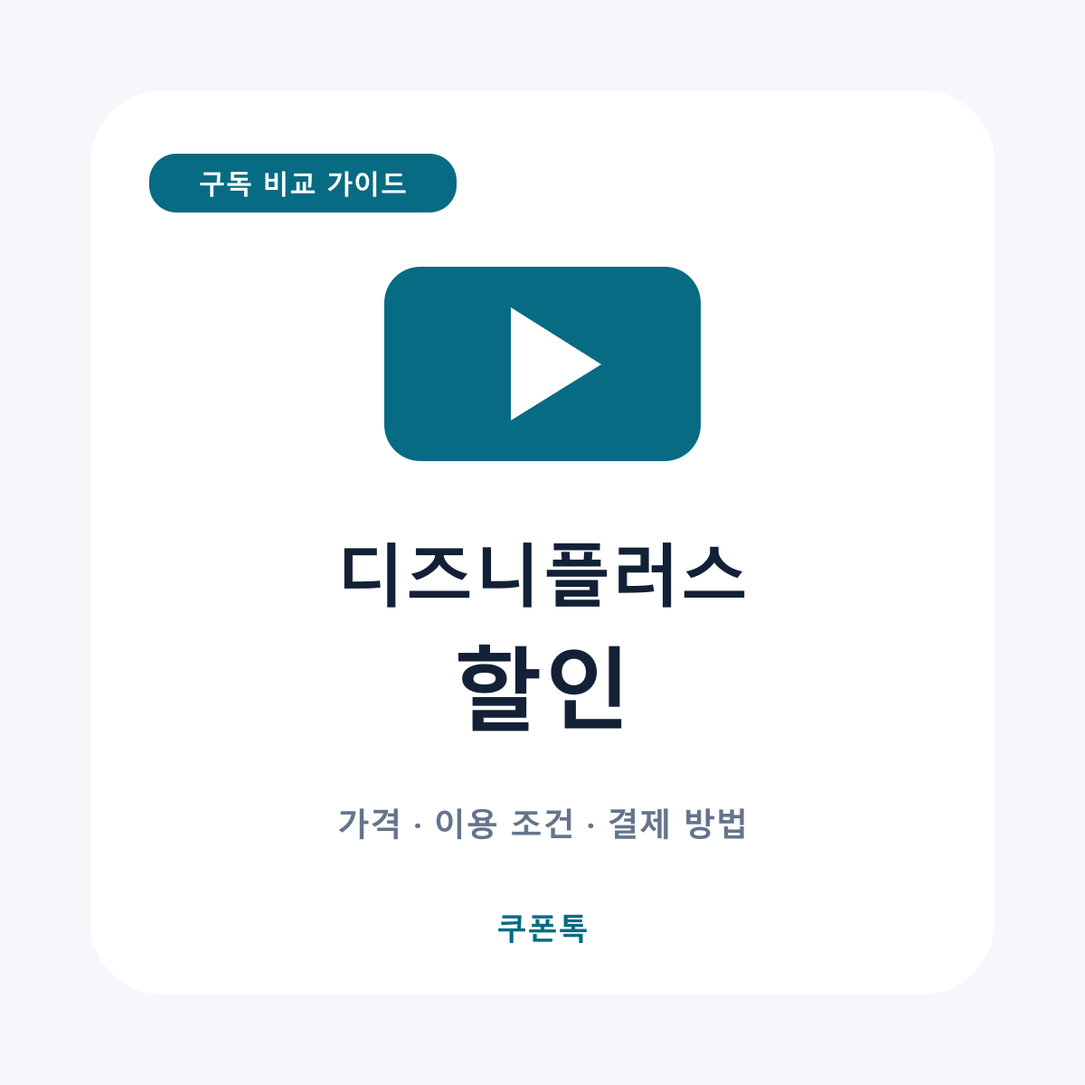
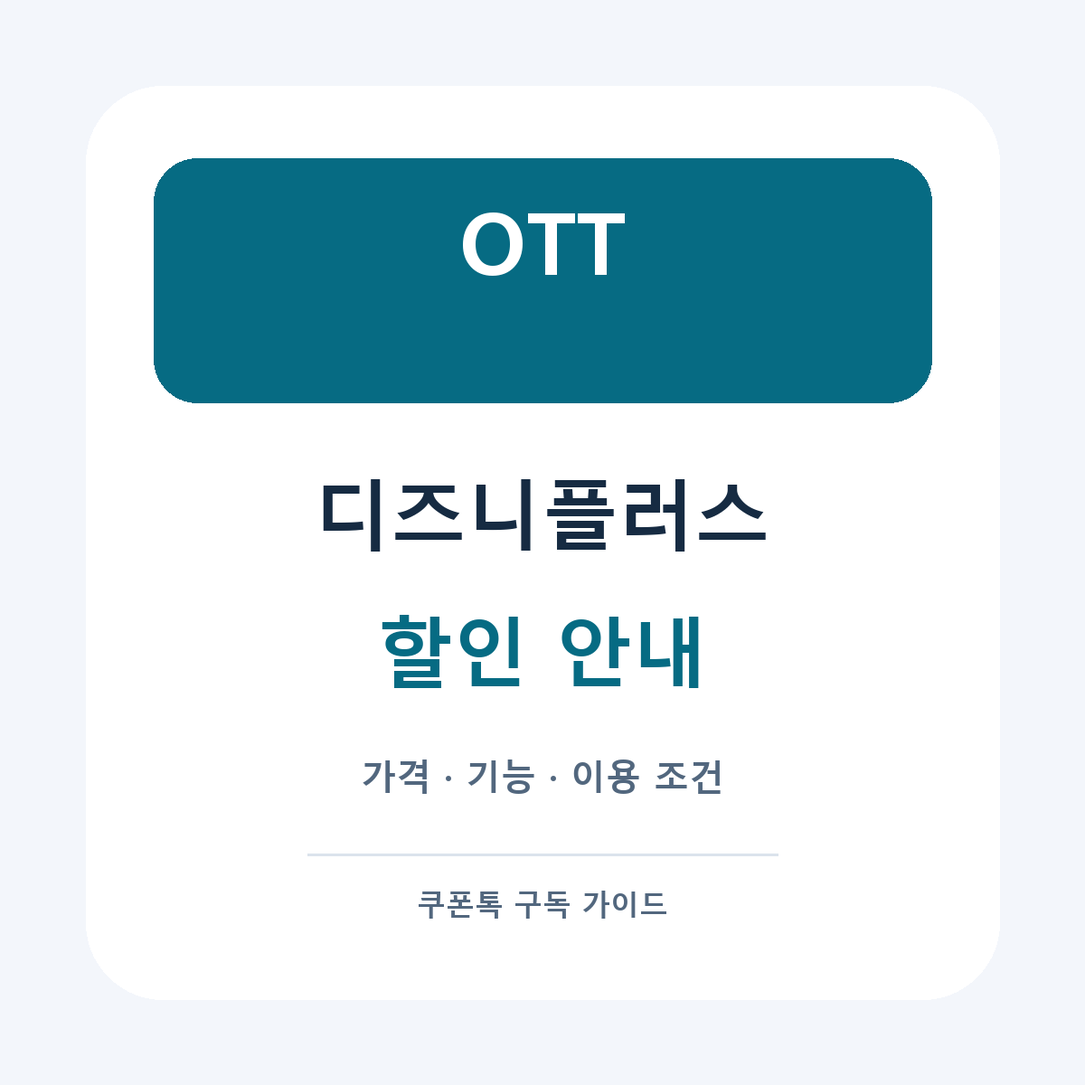
Expand subscription comparison guides to 15 services

Changed region(s): [[0.1233, 0.1233, 0.8633, 0.8633], [0.3083, 0.6783, 0.4008, 0.7708]]

diff --git a/src/lib/subscription-guides-extra.ts b/src/lib/subscription-guides-extra.ts
@@ -1,0 +1,195 @@
+// Editorial comparisons: do not infer a coupon or availability from the affiliate URL.
+export const extraSubscriptionGuides = [
+  {
+    slug: 'chatgpt-discount', title: '챗지피티 할인', service: '챗GPT', color: '#14796b',
+    description: '챗지피티 할인과 ChatGPT Plus 구독료 비교. 무료·유료 선택, 개인·공유 계정, 파일 업로드와 사용 한도, 겜스고 결제 전 확인사항을 안내합니다.',
+    intro: '챗지피티를 매일 쓰는지, 한 달 동안만 필요한지에 따라 구독 선택이 달라집니다. 챗GPT 플러스 할인은 월 환산 가격과 내 작업에 필요한 사용 한도를 함께 비교하세요.',
+    takeaway: '공유 계정의 낮은 가격과 개인 계정의 작업 환경을 구분하세요. 중요한 대화·파일을 다룬다면 계정 관리 권한부터 확인하는 것이 좋습니다.',
+    columns: ['비교 대상', '가격 확인 방법', '먼저 볼 조건'],
+    rows: [['공식 무료 이용', '공식 Free 플랜 확인', '필요한 파일·이미지 작업을 무료 범위에서 먼저 시험'], ['공식 유료 구독', 'Plus 등 로그인 후 결제 화면', '모델·업로드·도구 사용 한도와 청구 주기'], ['겜스고 상품', '개인형·공유형·충전형별 총액', '계정 소유권, 대화 접근, 제공 기간, 중단 시 처리']],
+    sections: [
+      { heading: '챗지피티 무료·유료 차이, 내 작업으로 비교하기', text: '짧은 질문과 문장 정리가 목적이라면 먼저 무료로 실제 작업을 해보세요. 긴 문서 분석이나 이미지 작업이 자주 중단될 때는 유료 플랜의 사용 한도가 도움이 되는지 살펴볼 수 있습니다. 한도는 기능과 모델에 따라 다르므로 유료라는 이유만으로 모든 작업이 무제한이라고 생각하지 마세요.' },
+      { heading: '챗지피티 플러스 싸게 쓰는 비용 계산', text: '공유형 한 달, 개인형 한 달, 장기 선결제 상품의 금액을 나란히 적어보세요. 6개월 총액을 6으로 나눈 금액과 실제 매달 납부하는 월 구독료는 다릅니다. 한 달짜리 프로젝트를 위해 긴 기간을 결제하면 월 환산가가 낮아도 총지출은 늘어날 수 있습니다.' },
+      { heading: '공유 계정과 내 계정 충전은 무엇이 다른가요?', text: '판매자가 제공하는 계정에 로그인하는 방식인지, 기존 내 계정에 이용 기간을 추가하는 방식인지 확인하세요. 공유형은 대화 기록과 업로드 파일의 접근 범위, 비밀번호 변경 가능 여부를 따로 확인해야 합니다. 기존 Plus가 남아 있다면 충전 시작일과 중복 결제 여부도 확인하세요.' },
+      { heading: 'Codex·API가 목적이라면 별도 확인하세요', text: '겜스고 ChatGPT 상품 안내에는 Codex 이용이 보장되지 않는다는 문구가 표시됩니다. 코딩 도구가 주목적이라면 일반 챗GPT 상품 가격만으로 결정하지 마세요. API 사용료 역시 채팅 구독과 같은 결제로 가정하지 말고 필요한 제품과 이용 범위를 구분해야 합니다.' },
+    ],
+    questions: [['챗지피티 학생 할인도 적용되나요?', '학생 대상 프로모션은 자격과 기간이 따로 있을 수 있습니다. 겜스고 상품을 공식 학생 할인으로 안내하지 않으며 해당 결제 화면에서 대상 여부를 확인하세요.'], ['기존 챗지피티 계정을 계속 쓸 수 있나요?', '개인 계정 충전인지 판매자 제공 계정인지에 따라 달라집니다. 기존 대화 기록을 이어 쓰려면 구매 전에 계정 제공 방식을 확인하세요.'], ['제휴 링크가 챗지피티 할인코드인가요?', '아닙니다. 이 페이지의 링크는 겜스고 제휴 링크이며 별도로 검증한 입력용 쿠폰 코드는 없습니다.']],
+    sources: [{ label: 'ChatGPT 공식 플랜 비교', url: 'https://chatgpt.com/ko-KR/pricing/' }], productSource: 'https://www.gamsgo.com/ko/details/chatgpt',
+  },
+  {
+    slug: 'claude-discount', title: '클로드 할인', service: '클로드', color: '#a95130',
+    description: '클로드 할인과 구독 가격 비교. Claude Pro·Max 선택 기준, 개인·공유 계정, Claude Code 및 API 이용 범위를 결제 전에 확인하세요.',
+    intro: '문서 작성, 긴 자료 검토, 코딩 중 무엇에 클로드를 사용할지 먼저 정하세요. 구독료뿐 아니라 내 작업량과 필요한 계정 권한을 비교하면 불필요한 결제를 줄일 수 있습니다.',
+    takeaway: 'Claude Pro·Max의 사용량 차이와 판매 상품의 실제 이용 권한을 구분하세요. API 크레딧 포함 여부는 별도로 확인해야 합니다.',
+    columns: ['선택 기준', '공식 구독', '제3자 판매 상품'],
+    rows: [['개인 작업', 'Free·Pro·Max 플랜 비교', '표시된 플랜과 개인 전용 여부 확인'], ['사용량', '공식 플랜별 제한 안내', '공유 사용자 수와 제한 발생 시 처리 확인'], ['코딩·연동', '필요한 도구의 제공 범위 확인', 'Claude Code·API를 따로 보장하는지 확인']],
+    sections: [
+      { heading: '클로드 가격보다 사용량을 먼저 비교하세요', text: '짧은 글쓰기와 긴 문서를 여러 번 수정하는 작업은 사용량이 다를 수 있습니다. 일주일 동안 자주 하는 작업을 기록하고 무료 범위에서 막히는 지점을 확인하세요. 상위 플랜은 더 많은 작업이 필요한 사람에게 검토할 대상이며, 가끔 사용하는 사람에게 항상 유리한 선택은 아닙니다.' },
+      { heading: '클로드 구독 할인과 연간 선결제', text: '월간 결제와 연간 결제를 비교할 때는 할인율뿐 아니라 사용하지 않을 달도 계산해야 합니다. 공식 가격의 통화·세금과 카드 청구액을 확인하고 겜스고 상품도 같은 기간의 총액으로 비교하세요. 장기 이용 상품의 환불 기준은 공식 구독과 같다고 가정하지 마세요.' },
+      { heading: '클로드 계정 구매 전 확인할 권한', text: '겜스고 마켓플레이스에서는 판매자와 상품별 조건을 읽어야 합니다. 로그인 방식, 비밀번호 변경, 대화와 프로젝트 접근, 기존 계정 사용 가능 여부를 확인하세요. 회사 문서나 고객 자료를 사용하려면 먼저 조직의 계정·데이터 이용 기준에 맞는 상품인지 판단하세요.' },
+      { heading: 'Claude Code와 API 목적이라면', text: '브라우저 채팅이 가능하다는 설명만으로 코딩 도구나 API 사용까지 포함된다고 판단하지 마세요. 필요한 도구 이름, 플랜, 인증 방식과 사용 제한을 판매 상세에서 확인하세요. 개발 작업의 연속성이 중요하다면 이용 중단 시 대체 계정과 기존 작업 복구가 어떻게 되는지도 살펴보세요.' },
+    ],
+    questions: [['클로드 할인과 클로드 가격 페이지를 각각 만들어야 하나요?', '이 페이지에서 가격 비교와 할인 조건을 함께 확인할 수 있습니다. 같은 구독 선택에 필요한 내용을 한곳에 정리했습니다.'], ['클로드 Pro면 API도 무료인가요?', '채팅 구독과 API 청구를 구분해야 합니다. 구매할 상품에 API 사용료가 포함된다고 명시돼 있는지 확인하세요.'], ['공유 계정에서 대화를 비공개로 보관할 수 있나요?', '계정 관리와 접근 권한에 따라 다르므로 보장하지 않습니다. 민감한 자료를 업로드하기 전에 접근 범위를 확인하세요.']],
+    sources: [{ label: 'Claude 공식 플랜·가격', url: 'https://claude.com/pricing' }], productSource: 'https://www.gamsgo.com/ko/accounts/claude',
+  },
+  {
+    slug: 'gemini-discount', title: '제미나이 할인', service: '제미나이', color: '#405fd0',
+    description: '제미나이 할인과 Google AI 구독 가격 비교. 학생 혜택, 기존 Google One 구독, 개인 계정 충전, 저장공간과 AI 기능을 확인하세요.',
+    intro: '제미나이 구독은 AI 기능만 필요한지, Google 계정의 저장공간도 필요한지에 따라 비교할 내용이 달라집니다. 이미 사용 중인 Google One 결제부터 확인해보세요.',
+    takeaway: '개인 계정 충전·계정 제공·리딤 방식의 차이를 확인하세요. 기존 Google One과 새 상품의 기간이 겹치지 않는지도 중요합니다.',
+    columns: ['비교 항목', '확인할 내용', '선택에 미치는 영향'],
+    rows: [['공식 AI 플랜', '현재 국가의 플랜·기능·저장공간', '필요한 기능이 포함된 등급 선택'], ['학생·신규 혜택', '대상·신청 기한·종료 후 청구액', '자격이 맞을 때만 혜택 계산'], ['겜스고 상품', '리딤·계정·충전 옵션과 총액', '내 계정 사용 및 기존 구독과의 호환 여부']],
+    sections: [
+      { heading: '제미나이 가격, AI 기능과 저장공간 나눠 보기', text: '문서 요약이나 이미지 작업을 위한 구독인지, Drive·사진 저장공간도 필요한지 정리하세요. 저장공간만 필요하다면 AI 플랜을 선택하는 것이 과한 지출일 수 있습니다. 반대로 여러 기능을 쓰고 있다면 기존 구독료와 새 플랜 총액을 함께 비교하는 것이 좋습니다.' },
+      { heading: '제미나이 학생 할인은 대상부터 확인하세요', text: '학생 대상 혜택을 찾더라도 현재 신청 가능한 국가·학교·계정인지 확인해야 합니다. 지난 행사 안내를 현재 진행 중인 할인으로 보지 마세요. 무료 또는 할인 기간 이후 자동으로 청구되는 금액과 취소 기한을 확인한 뒤 비교표에 반영하세요.' },
+      { heading: '겜스고 제미나이 상품, 충전과 계정 제공 비교', text: '겜스고에서는 상품 옵션에 따라 제공 방식이 달라질 수 있습니다. 기존 이메일로 이용할 수 있는지, 새 계정이 제공되는지, 리딤 링크를 직접 적용하는지 먼저 확인하세요. 저장공간·가족 기능·AI 크레딧까지 모두 동일하게 제공된다고 가정하지 마세요.' },
+      { heading: '기존 구독이 있다면 갱신일 확인', text: 'Google One을 이미 결제 중이면 현재 플랜, 결제 사업자와 다음 갱신일을 적어두세요. 새로운 상품이 남은 기간을 연장하는지, 별도의 계정에서 시작하는지 확인해야 중복 지출을 피할 수 있습니다. 적용 불가 시 처리 방법도 구매 전에 확인하세요.' },
+    ],
+    questions: [['제미나이 할인 링크를 누르면 학생 혜택이 적용되나요?', '아닙니다. 학생 혜택은 공식 자격 확인이 필요한 별도 프로그램이며 제휴 링크가 자격을 부여하지 않습니다.'], ['내 구글 계정을 계속 쓸 수 있나요?', '선택한 충전·리딤·계정 제공 상품에 따라 다릅니다. 상품 상세의 적용 조건을 확인하세요.'], ['품절인 옵션은 어떻게 하나요?', '다른 제공 방식의 상품은 조건이 다를 수 있습니다. 재입고 또는 공식 직접 구독과 비교하고 같은 상품으로 가정하지 마세요.']],
+    sources: [{ label: 'Google One 공식 AI 플랜 안내', url: 'https://one.google.com/about/google-ai-plans/' }], productSource: 'https://www.gamsgo.com/ko/details/gemini',
+  },
+  {
+    slug: 'tving-discount', title: '티빙 할인', service: '티빙', color: '#cf2144',
+    description: '티빙 할인과 이용권 비교. 광고형·스탠다드·프리미엄, TV 시청, 연간 결제와 결합 상품, 겜스고 프로필 제공 조건을 확인하세요.',
+    intro: '드라마 한 편을 볼 때와 스포츠 시즌 내내 이용할 때 필요한 티빙 이용권은 다를 수 있습니다. 시청 기간과 TV 연결 여부부터 정하고 할인 방법을 비교하세요.',
+    takeaway: '광고·화질·시청 기기 조건이 같은 상품끼리 비교하세요. 다른 OTT도 사용한다면 번들의 총액도 확인할 만합니다.',
+    columns: ['비교 방법', '확인할 조건', '추천 비교 상황'],
+    rows: [['공식 월간 이용권', '광고·화질·동시 시청·기기', '짧게 이용하거나 필요할 때만 결제'], ['연간·결합 혜택', '선결제 총액과 포함 서비스', '여러 달 또는 여러 OTT 이용'], ['겜스고 상품', '프로필·PIN·TV 접속·제공 기간', '별도 계정 제공 조건을 이해한 경우']],
+    sections: [
+      { heading: '티빙 이용권 할인, 광고와 TV 연결 먼저 비교', text: '휴대폰으로 짧게 보는지, 거실 TV에서 길게 보는지에 따라 필요한 조건이 달라집니다. 광고 유무와 지원 기기, 화질을 공식 이용권 화면에서 확인하세요. 보고 싶은 콘텐츠의 시청 가능 여부도 구독 전 확인하면 사용하지 못하는 이용권 구매를 피할 수 있습니다.' },
+      { heading: '티빙 연간 할인과 월간 결제 계산', text: '한 작품을 보고 중단할 계획이면 1~2개월 총액으로 비교하세요. 연간 금액을 12로 나눈 값은 매달 납부하는 요금이 아닐 수 있습니다. 자동 갱신 취소와 남은 기간 환불은 다른 절차이므로 취소 화면의 안내를 확인해야 합니다.' },
+      { heading: '티빙·디즈니플러스·웨이브 결합 비교', text: '여러 OTT를 이미 이용 중이라면 각각의 실제 청구액을 합쳐 공식 결합 상품과 비교해보세요. 결합으로 바꾸면서 화질이나 계정 연결 방식이 달라지는지 살펴보세요. 겜스고 티빙 단일 상품에 다른 OTT가 자동 포함된다고 가정해서는 안 됩니다.' },
+      { heading: '겜스고 티빙 프로필과 PIN 확인', text: '겜스고 티빙 카드에는 프로필 제공과 PIN 설정 안내가 표시됩니다. 프로필을 받는 것과 계정을 직접 관리하는 것은 다릅니다. TV 로그인, 동시 접속, 비밀번호 변경 권한, 접속이 끊겼을 때의 대응을 상품 상세에서 확인하세요.' },
+    ],
+    questions: [['티빙 한 달 무료 혜택이 있나요?', '현재 모든 이용자에게 적용되는 무료 이용을 이 페이지에서 보장하지 않습니다. 공식 신규·제휴 혜택의 대상과 종료일을 확인하세요.'], ['겜스고 티빙이면 TV에서도 볼 수 있나요?', '상품별 기기와 인증 조건을 확인해야 합니다. 프리미엄이라는 명칭만으로 모든 TV 접속을 보장하지 않습니다.'], ['연간 결제가 항상 저렴한가요?', '월 환산가가 낮아도 실제 사용할 기간이 짧으면 월간 결제의 총지출이 더 적을 수 있습니다.']],
+    sources: [{ label: '티빙 공식 이용권 선택 화면', url: 'https://www.tving.com/bill/subscription/plan' }], productSource: 'https://www.gamsgo.com/ko/details/tving',
+  },
+  {
+    slug: 'suno-plans', title: '수노 요금제 비교', service: '수노', color: '#a44976',
+    description: '수노 요금제 비교와 Suno AI 가격 안내. 무료·유료 크레딧, 상업적 이용, 음악 생성량, 겜스고 공유 상품의 할당량을 비교하세요.',
+    intro: '수노로 음악을 시험 삼아 만들지, 영상이나 판매용 작업에 사용할지 먼저 정하세요. 월 구독료만큼 크레딧과 결과물 이용 조건이 중요합니다.',
+    takeaway: '공식 플랜의 전체 크레딧과 공유 상품에서 내가 받는 크레딧을 구분하세요. 상업적 사용은 생성 시점의 조건을 확인해야 합니다.',
+    columns: ['비교 대상', '먼저 확인할 것', '적합성 판단'],
+    rows: [['무료 플랜', '일일 크레딧과 결과물 이용 범위', '작곡 방식과 결과를 시험할 때'], ['공식 유료 플랜', '월 크레딧·추가 구매·상업 이용', '반복 제작과 공개·판매 작업'], ['겜스고 수노', '사용자별 크레딧과 공유 조건', '필요한 작업량을 실제 할당량으로 계산']],
+    sections: [
+      { heading: '수노 무료와 유료 차이: 상업적 이용', text: 'Suno 공식 가격 안내는 무료 플랜에 상업적 이용 권한이 포함되지 않는다고 안내합니다. 광고 영상, 음원 유통처럼 수익과 연결되는 작업이라면 구독 명칭만 보지 말고 생성 당시의 이용 조건과 권리 범위를 확인하세요. 유료 가입 전 만든 곡의 권한도 별도로 확인하는 것이 좋습니다.' },
+      { heading: '수노 AI 크레딧으로 한 달 작업량 계산', text: '완성곡 한 개가 나오기까지 여러 번 생성하고 수정할 수 있습니다. 먼저 시험 작업에서 사용한 크레딧을 기록하고, 한 달에 만들 곡 수를 곱해보세요. 단순 생성 횟수보다 재생성·확장·편집에 들어갈 여유분을 함께 잡는 것이 현실적입니다.' },
+      { heading: '겜스고 수노는 사용자별 제공량 확인', text: '겜스고 홈의 수노 상품에는 사용자별 크레딧 안내가 있습니다. 공식 Pro 전체 크레딧이 그대로 내 몫이라고 생각하지 마세요. 갱신 시점, 초과 사용 가능 여부, 다른 이용자와 작업 목록을 공유하는지, 곡 다운로드 범위를 확인해야 합니다.' },
+      { heading: '수노 연간 요금제를 고르는 기준', text: '연간 할인은 꾸준히 음악을 만드는 경우에 비교할 만합니다. 잠깐 음원을 제작하는 프로젝트라면 필요한 달만 결제하는 방법도 계산해보세요. 통화와 세금을 포함한 총액, 사용하지 않은 크레딧 처리, 해지 후 파일 보관 여부를 확인하고 작업 파일은 따로 보관하세요.' },
+    ],
+    questions: [['수노 Pro를 사면 음악을 마음대로 판매할 수 있나요?', '생성 시점의 플랜과 공식 이용 조건, 사용한 입력 자료의 권리를 함께 확인해야 합니다. 이 페이지는 모든 결과물의 판매 가능성을 보장하지 않습니다.'], ['겜스고 수노와 공식 Pro의 크레딧이 같나요?', '공유형 상품은 사용자별 배정량이 다를 수 있습니다. 최종 상품 안내에 적힌 내 할당량으로 비교하세요.'], ['수노 가격은 월 환산가로 비교하면 되나요?', '월 환산가와 실제 선결제 총액을 함께 비교해야 합니다. 필요한 사용 기간도 포함하세요.']],
+    sources: [{ label: 'Suno 공식 요금제·크레딧·이용 범위', url: 'https://suno.com/pricing' }], productSource: 'https://www.gamsgo.com/ko/details/suno',
+  },
+  {
+    slug: 'midjourney-pricing', title: '미드저니 가격', service: '미드저니', color: '#336a9a',
+    description: '미드저니 가격과 Basic·Standard·Pro·Mega 비교. 월간·연간 요금, Fast·Relax 시간, 비공개 작업과 겜스고 제공 방식을 확인하세요.',
+    intro: '이미지를 몇 장 만들지보다 얼마나 자주 수정할지가 중요합니다. 미드저니 가격은 생성 시간과 공개 범위, 필요한 작업 속도까지 함께 비교하세요.',
+    takeaway: '연간 요금은 한 번에 결제하는 총액입니다. 비공개 작업이 필요하면 해당 기능을 제공하는 플랜부터 확인하세요.',
+    columns: ['공식 플랜', '월간 / 연간 총액(USD)', '비교 포인트'],
+    rows: [['Basic', '$10 / $96', '소량 작업의 Fast 시간 확인'], ['Standard', '$30 / $288', '이미지 Relax 모드 사용 비교'], ['Pro', '$60 / $576', 'Stealth 등 비공개 작업 기능 확인'], ['Mega', '$120 / $1,152', '많은 생성량에 필요한 시간 비교']],
+    sections: [
+      { heading: '미드저니 월간·연간 가격 차이', text: '공식 비교표의 연간 금액은 월 환산가가 아닌 1년 총액으로 표시했습니다. 예를 들어 Basic 연간 $96은 매달 $8씩 결제한다는 의미가 아닙니다. 실제 원화 청구액은 환율과 세금 등 결제 조건에 따라 달라질 수 있으므로 결제 화면에서 확인하세요.' },
+      { heading: 'Fast와 Relax로 작업 속도 비교', text: '작업을 빠르게 처리해야 하는지, 기다려도 괜찮은지 생각해보세요. 공식 안내에서 Standard 이상은 이미지 Relax 모드를 제공하지만 이미지와 영상의 조건은 같지 않습니다. 영상까지 제작한다면 해상도와 모드별 사용 범위를 별도로 비교해야 합니다.' },
+      { heading: '미드저니 비공개 생성이 필요한 경우', text: '공개 전인 브랜드 시안이나 고객 작업을 다룬다면 Stealth 같은 비공개 기능을 확인하세요. 공유 계정을 구매하면서 해당 기능이 있다는 이유만으로 내 작업이 다른 계정 이용자에게도 보이지 않는다고 가정해서는 안 됩니다. 계정 접근 범위와 서비스 공개 설정을 나눠 확인하세요.' },
+      { heading: '겜스고 미드저니 계정·웹형 비교', text: '겜스고에는 계정과 웹형 등 제공 방식이 다른 항목이 표시될 수 있습니다. 공식 사이트나 Discord에서 사용하는 상품인지, 별도의 웹 화면을 이용하는 상품인지 확인하세요. Fast 시간 배정, 이미지 보관·다운로드와 작업 공개 범위를 동일한 조건으로 맞춰 비교하세요.' },
+    ],
+    questions: [['미드저니 연간 할인은 월별 결제인가요?', '공식 연간 플랜은 1년 비용을 선결제하는 방식입니다. 표의 연간 총액과 실제 청구액을 확인하세요.'], ['미드저니 Standard면 비공개 생성이 되나요?', '공식 안내에서 Stealth는 Pro와 Mega에 제공됩니다. 제3자 상품의 계정 접근 조건도 별도로 확인해야 합니다.'], ['미드저니 공유 상품은 무제한인가요?', '모드·이미지 또는 영상·사용자별 할당 조건이 다를 수 있습니다. 무제한이라는 표현만으로 모든 작업을 무제한으로 해석하지 마세요.']],
+    sources: [{ label: 'Midjourney 공식 플랜 비교표', url: 'https://docs.midjourney.com/hc/en-us/articles/27870484040333-Comparing-Midjourney-Plans' }], productSource: 'https://www.gamsgo.com/ko/details/midjourney_official',
+  },
+  {
+    slug: 'genspark-pricing', title: '젠스파크 가격', service: '젠스파크', color: '#6254a8',
+    description: '젠스파크 가격과 구독 조건 비교. AI 슬라이드·리서치 작업의 크레딧, 월간·연간 총액, 겜스고 계정 제공 방식을 확인하세요.',
+    intro: '젠스파크로 자료 조사, 슬라이드 작성, 이미지 작업 중 무엇을 할지 정하고 비교하세요. 구독료가 같아도 필요한 작업에 사용할 수 있는 크레딧은 다를 수 있습니다.',
+    takeaway: '한 번의 생성 비용보다 완성까지 수정하는 데 드는 크레딧을 기준으로 비교하세요. 현재 가격은 로그인 후 공식 화면에서 확인해야 합니다.',
+    columns: ['비교 항목', '확인 방법', '계산에 반영할 것'],
+    rows: [['공식 구독료', '공식 가격 페이지 로그인 후 확인', '통화·세금·월간 또는 연간 청구'], ['작업량', '필요한 도구의 크레딧 안내', '조사·생성·수정에 필요한 사용량'], ['겜스고 상품', '제공 계정·기간·할당량 확인', '내가 실제 쓸 수 있는 기능과 크레딧']],
+    sections: [
+      { heading: '젠스파크 AI 슬라이드 가격 비교 방법', text: '한 달에 만들 발표자료 수와 자료당 수정 횟수를 적어보세요. 첫 결과만으로 끝나는지, 이미지 교체와 내용 수정을 반복하는지에 따라 체감 비용이 달라집니다. 원하는 파일 형식으로 내보낼 수 있는지도 구독 전에 확인해야 합니다.' },
+      { heading: '리서치·이미지 작업을 함께 쓰는 경우', text: '여러 도구가 같은 크레딧을 사용하는지, 별도 한도가 있는지 확인하세요. 슬라이드 작업에 쓸 크레딧을 다른 생성 작업에서 먼저 사용하면 계획보다 빨리 한도에 도달할 수 있습니다. 작업별 사용 내역을 기록하면 필요한 구독 등급을 판단하기 쉽습니다.' },
+      { heading: '젠스파크 할인과 연간 결제 비교', text: '공식 가격 화면은 로그인 상태에 따라 확인이 필요해 이 페이지에는 미확인 고정 가격을 싣지 않았습니다. 현재 월간 금액과 연간 총액, 할인 종료 후 갱신 금액을 직접 비교하세요. 처음 써보는 경우에는 짧은 기간의 실제 작업 결과로 장기 이용 여부를 판단하는 방법도 있습니다.' },
+      { heading: '겜스고 젠스파크 계정 조건', text: '개인 전용인지 공유 계정인지, 기존 계정의 작업을 이어갈 수 있는지 확인하세요. 생성 자료와 업로드 파일을 누가 볼 수 있는지, 이용 종료 후 파일에 접근할 수 있는지도 중요합니다. 품절 시 다른 이름의 AI 상품으로 대체하지 말고 필요한 기능을 다시 비교하세요.' },
+    ],
+    questions: [['젠스파크 가격이 왜 고정 금액으로 없나요?', '공식 가격 화면의 로그인·플랜 조건을 모두 확인하지 못한 상태에서 금액을 단정하지 않기 위해서입니다. 현재 결제 화면을 기준으로 비교하세요.'], ['공유 계정이면 크레딧도 모두 사용할 수 있나요?', '전체 계정 크레딧과 사용자별 배정량이 다를 수 있습니다. 내 할당량을 확인하세요.'], ['AI 슬라이드가 주목적이면 무엇을 확인하나요?', '크레딧, 수정 작업, 파일 내보내기, 자료 접근 권한을 함께 확인하세요.']],
+    sources: [{ label: 'Genspark 공식 가격 화면(로그인 필요할 수 있음)', url: 'https://www.genspark.ai/pricing' }], productSource: 'https://www.gamsgo.com/ko/details/genspark',
+  },
+  {
+    slug: 'adobe-discount', title: '어도비 할인', service: '어도비', color: '#bc3136',
+    description: '어도비 할인과 Creative Cloud 구독 비교. 학생 할인, 포토샵·프리미어 단일 앱, 모든 앱, 연간 약정과 겜스고 계정 조건을 확인하세요.',
+    intro: '포토샵만 필요한지, 프리미어와 애프터이펙트도 필요한지부터 정하세요. 어도비 할인은 앱 구성과 계약 기간이 같은 상품끼리 비교해야 합니다.',
+    takeaway: '연간 약정의 월별 결제와 약정 없는 월간 플랜을 구분하세요. 학생 혜택은 실제 자격이 맞는 경우에만 비교하세요.',
+    columns: ['비교 대상', '확인할 내용', '어울리는 사용 목적'],
+    rows: [['단일 앱·분야별 플랜', '포함 앱·저장공간·생성 크레딧', '사진 또는 특정 편집 작업'], ['Creative Cloud 여러 앱', '실제로 사용할 앱과 결제 기간', '디자인·영상 작업을 함께 하는 경우'], ['학생·교사 혜택', '자격·첫 기간·갱신 금액', '공식 자격을 충족하는 사용자'], ['겜스고 상품', '개인 계정·제공 앱·관리 권한', '별도 판매 조건을 확인한 뒤 비교']],
+    sections: [
+      { heading: '포토샵 할인과 모든 앱 구독 비교', text: '사진 보정이 주목적이면 포토샵과 사진 관련 플랜을 먼저 비교하세요. 영상 편집까지 한다면 프리미어, 애프터이펙트 등 필요한 앱을 적고 개별 구독과 여러 앱 플랜의 총액을 비교할 수 있습니다. 사용하지 않는 앱 수가 많다고 할인 가치가 커지는 것은 아닙니다.' },
+      { heading: '어도비 학생 할인: 첫 기간과 갱신 가격', text: '공식 학생·교사 플랜은 자격 확인 조건을 읽어야 합니다. 첫 할인 기간과 이후 갱신 요금이 같다고 가정하지 마세요. 겜스고 상품이 저렴하더라도 그것을 공식 학생 할인으로 설명해서는 안 되며, 서로 다른 가입 방식으로 비교해야 합니다.' },
+      { heading: '연간 약정 월별 결제와 월간 구독의 차이', text: '매달 결제한다는 표현만으로 한 달 단위의 자유로운 계약이라고 판단하지 마세요. 계약 기간과 중도 취소 시 비용, 자동 갱신 조건을 결제 화면에서 확인하세요. 짧은 외주 프로젝트라면 계약을 유지해야 하는 전체 기간의 지출도 계산하는 것이 좋습니다.' },
+      { heading: '겜스고 어도비 계정과 작업 파일 관리', text: '내 Adobe 계정으로 사용하는지, 판매자가 제공하는 계정이나 조직에 참여하는 방식인지 확인하세요. 제공 앱, 로그인 기기, 저장공간과 생성 크레딧도 따로 확인해야 합니다. 프로젝트 원본은 로컬 등 별도 보관 위치에 저장하고 이용 종료 후 클라우드 파일 접근 조건을 살펴보세요.' },
+    ],
+    questions: [['어도비 할인율만 비교하면 되나요?', '포함 앱·약정 기간·갱신 가격이 같은지 먼저 확인해야 합니다. 첫 달 가격만으로 전체 비용을 판단하지 마세요.'], ['겜스고 어도비는 공식 학생 할인인가요?', '이 페이지에서는 별도의 판매 상품으로 안내하며 공식 학생 할인이라고 확인하지 않았습니다.'], ['포토샵만 쓰는데 모든 앱이 필요한가요?', '필요한 기능과 단일 앱·사진 플랜의 현재 구성을 먼저 비교하세요. 여러 앱이 필요할 때 전체 플랜을 검토하면 됩니다.']],
+    sources: [{ label: 'Adobe 공식 Creative Cloud 플랜', url: 'https://www.adobe.com/kr/creativecloud/plans.html' }], productSource: 'https://www.gamsgo.com/ko/details/adobe1',
+  },
+  {
+    slug: 'capcut-pricing', title: '캡컷 가격', service: '캡컷', color: '#25485e',
+    description: '캡컷 가격과 무료·유료 비교. CapCut Pro 월간·연간 요금, PC·모바일 결제 차이, AI 크레딧과 겜스고 구독 조건을 확인하세요.',
+    intro: '영상 편집을 끝냈는데 유료 기능 때문에 내보내기가 막히지 않도록, 사용할 효과와 기능부터 살펴보세요. 캡컷 가격은 기기와 플랜에 따라 확인해야 합니다.',
+    takeaway: '편집 작업에 필요한 유료 기능과 AI 크레딧을 먼저 확인하세요. 모바일·PC·웹의 표시 가격이 같다고 가정하지 마세요.',
+    columns: ['비교 항목', '확인할 위치', '검토할 조건'],
+    rows: [['현재 구독 가격', '사용할 앱·웹의 구독 화면', '지역·결제 채널·기간별 청구액'], ['무료·유료 기능', '작업에 선택한 효과·도구', '유료 표시와 내보내기 제한'], ['겜스고 Pro 상품', '상품 상세와 최종 옵션', '계정 방식·크레딧·저장공간·기기']],
+    sections: [
+      { heading: '캡컷 무료와 프로 차이, 편집 파일로 확인', text: '내가 자주 쓰는 자막, 효과, 배경 제거와 내보내기 설정을 적어보세요. 기능 제공 범위는 플랜과 업데이트에 따라 달라질 수 있습니다. 실제 프로젝트에서 유료 표시가 붙는 요소를 확인한 뒤 구독하면 필요 없는 기능 때문에 비용을 지출하는 일을 줄일 수 있습니다.' },
+      { heading: '캡컷 PC·모바일 가격 비교', text: 'CapCut 공식 도움말은 지역과 플랫폼에 따라 구독 화면의 최신 가격을 확인하도록 안내합니다. 같은 계정으로 PC·모바일·웹에서 표시되는 기간과 청구액을 비교하세요. 할인된 첫 기간만 보지 말고 다음 갱신 가격과 자동 결제 여부를 함께 확인해야 합니다.' },
+      { heading: '캡컷 AI 크레딧과 클라우드 저장공간', text: '일반 편집 도구 사용과 AI 생성 작업은 서로 다른 한도가 적용될 수 있습니다. 내 작업에 필요한 생성 횟수, 크레딧 갱신 주기, 저장공간을 확인하세요. Pro라는 이름만 같다고 모든 판매 경로에서 동일한 크레딧과 저장공간을 받는다고 가정하지 마세요.' },
+      { heading: '겜스고 캡컷 결제 전 프로젝트 보관', text: '내 계정 업그레이드인지 제공 계정 로그인인지 먼저 확인하세요. 기존 프로젝트를 이어서 편집할 수 있는지, 여러 기기에서 접속할 수 있는지, 구독 종료 후 원본 접근이 가능한지가 중요합니다. 장기 상품 구매 전에 짧은 작업으로 사용 환경을 점검하는 것도 방법입니다.' },
+    ],
+    questions: [['캡컷 가격이 사람마다 다른 이유는 무엇인가요?', '지역·플랫폼·플랜·프로모션에 따라 표시 조건이 달라질 수 있습니다. 사용할 기기의 최종 결제 화면으로 비교하세요.'], ['캡컷 Pro면 AI 기능이 무제한인가요?', 'AI 작업의 크레딧과 사용 제한은 별도로 확인해야 합니다. Pro 명칭만으로 무제한을 보장하지 않습니다.'], ['무료 버전에서 바로 유료로 바꿔야 하나요?', '자주 쓰는 기능과 실제 내보내기 조건을 확인하세요. 필요한 작업이 무료로 가능하다면 구독이 필수는 아닙니다.']],
+    sources: [{ label: 'CapCut 공식 구독 가격 안내', url: 'https://www.capcut.com/ko-kr/help/new-capcut-subscription-pricing' }], productSource: 'https://www.gamsgo.com/ko/details/capcut',
+  },
+  {
+    slug: 'spotify-discount', title: '스포티파이 할인', service: '스포티파이', color: '#157343',
+    description: '스포티파이 할인과 Premium 구독료 비교. 무료 체험 자격, 개인 요금제, 오프라인 다운로드, 기존 계정과 겜스고 제공 조건을 확인하세요.',
+    intro: '광고 없이 음악을 듣고 싶은지, 다운로드해서 오프라인으로 들을지도 생각해보세요. 기존 플레이리스트를 유지할 수 있는 계정 방식도 함께 비교하세요.',
+    takeaway: '무료 체험은 대상 조건을 확인하고, 체험 이후 정상 청구액으로 비교하세요. 오프라인 감상이 필요한지도 중요합니다.',
+    columns: ['비교 대상', '확인한 내용', '추가 확인사항'],
+    rows: [['공식 Premium 개인', '체험 후 월 11,990원(부가세 포함)', '가입 화면의 최신 금액과 자격'], ['공식 체험 혜택', '표시된 대상에게 1개월 0원', '기존 이용 이력·종료 후 자동 결제'], ['겜스고 구독', '상품 기간별 최종 금액 확인', '내 계정·국가·플레이리스트 유지 여부']],
+    sections: [
+      { heading: '스포티파이 무료 체험과 할인 구분', text: '공식 한국 페이지에는 개인 플랜 체험 안내가 있지만 모든 이용자에게 적용되는 것은 아닙니다. 과거 구독 이력 등 자격 조건을 확인하고 체험 종료 후 실제 청구 금액을 비교하세요. 체험을 원하지 않으면 언제까지 취소해야 하는지도 확인하는 것이 좋습니다.' },
+      { heading: '스포티파이 요금제, 다운로드가 필요한가요?', text: '공식 페이지는 베이직의 오프라인 다운로드 제외 조건을 안내합니다. 출퇴근길이나 비행기에서 데이터 없이 음악을 들으려면 이 기능이 포함된 상품인지 확인하세요. 단순히 Premium이라는 단어보다 실제 플랜의 기능 설명을 비교하는 것이 정확합니다.' },
+      { heading: '겜스고 스포티파이와 기존 플레이리스트', text: '내 기존 계정에 적용되는 상품인지 새 계정을 받는 상품인지 확인하세요. 계정을 바꾸면 기존 보관함과 플레이리스트를 그대로 쓸 수 있다고 가정해서는 안 됩니다. 국가 설정, 기존 결제와의 중복, 적용까지 걸리는 시간도 확인해야 합니다.' },
+      { heading: '스포티파이 연간 환산 가격 계산', text: '장기 상품을 비교할 때는 총액을 실제 제공 개월 수로 나눠보세요. 매달 청구되는 구독과 한 번에 결제하는 기간권은 지출 시점과 취소 조건이 다릅니다. 중단 시 남은 기간 처리, 계정 교체 여부와 플레이리스트 접근을 함께 살펴보세요.' },
+    ],
+    questions: [['스포티파이 무료 체험을 누구나 받을 수 있나요?', '아닙니다. 공식 안내의 자격 조건과 실제 가입 화면을 확인해야 합니다.'], ['겜스고 링크로 공식 학생 할인이 되나요?', '제휴 링크와 공식 학생·통신사 혜택은 별개입니다. 해당 자격이나 할인 적용을 보장하지 않습니다.'], ['기존 음악 목록을 유지할 수 있나요?', '내 계정에 적용되는지 새 계정을 제공받는지에 따라 다릅니다. 구매할 상품의 제공 방식을 먼저 확인하세요.']],
+    sources: [{ label: 'Spotify 대한민국 공식 Premium 안내', url: 'https://www.spotify.com/kr-ko/premium/' }], productSource: 'https://www.gamsgo.com/ko/details/spotify',
+  },
+  {
+    slug: 'canva-subscription', title: '캔바 구독료 비교', service: '캔바', color: '#087f90',
+    description: '캔바 구독료 비교와 Canva Pro 가격 확인 방법. 무료·유료 기능, 팀 초대와 개인 계정, 템플릿·브랜드 자료·AI 사용량을 비교하세요.',
+    intro: '썸네일을 가끔 만드는지, 브랜드 디자인을 매일 만드는지에 따라 필요한 캔바 구독이 달라집니다. 사용하는 소재와 작업 파일의 소유·관리 방식부터 확인하세요.',
+    takeaway: '개인 Pro 구독과 팀 초대형 상품은 관리 권한이 다를 수 있습니다. 작업 파일을 계속 보관할 수 있는지도 확인하세요.',
+    columns: ['비교 항목', '확인할 내용', '사용 상황'],
+    rows: [['무료 이용', '필요한 소재·편집·내보내기 범위', '간단한 썸네일·카드뉴스 시험'], ['공식 유료 플랜', 'Pro·Business 등의 기능과 청구액', '브랜드 관리·반복 제작·협업'], ['겜스고 상품', '개인형·팀 초대·제공 기간', '관리자 권한과 파일 접근 조건 확인']],
+    sections: [
+      { heading: '캔바 무료와 Pro, 소재 사용으로 비교', text: '자주 쓰는 템플릿, 사진과 디자인 요소에 유료 표시가 있는지 확인하세요. 무료 소재만으로 작업이 가능하다면 구독이 꼭 필요하지 않을 수 있습니다. 반복해서 같은 브랜드의 작업물을 만든다면 브랜드 자료 관리와 편집 기능이 시간을 얼마나 줄이는지도 비교해보세요.' },
+      { heading: '캔바 프로 가격과 연간 구독료', text: '공식 가격 페이지에서 내 국가·통화와 결제 주기를 선택해 비교하세요. 팀이나 비즈니스 상품이라면 인원 기준도 확인해야 합니다. 월 환산가뿐 아니라 실제 청구 총액, 무료 체험 종료일과 다음 갱신 금액을 적어두면 비교하기 쉽습니다.' },
+      { heading: '팀 초대형 캔바 상품과 개인 구독 차이', text: '겜스고 상품이 개인 계정에 적용되는지, 외부 팀에 초대되는 방식인지 확인하세요. 팀 관리자가 이용 권한을 변경할 수 있는지, 디자인의 저장 위치와 접근 범위가 어떻게 되는지가 중요합니다. 제공 기간이 끝난 뒤 내 작업을 내려받거나 옮길 수 있는지도 확인하세요.' },
+      { heading: 'AI 기능과 상업용 디자인 확인사항', text: 'AI 생성은 사용 한도나 크레딧이 별도로 있을 수 있습니다. 디자인 소재를 광고·상품에 쓸 예정이면 해당 소재의 라이선스도 확인하세요. 유료 구독 자체가 모든 로고·사진·음원에 대한 독점 권리나 무제한 재판매 권한을 주는 것은 아닙니다.' },
+    ],
+    questions: [['캔바 구독료는 1인 기준인가요?', '플랜에 따라 개인 또는 좌석 기준이 다를 수 있습니다. 실제 결제할 인원과 총액을 확인하세요.'], ['팀에서 나가도 디자인을 계속 쓸 수 있나요?', '작업의 저장 위치와 관리 권한에 따라 달라질 수 있습니다. 초대형 상품 구매 전에 파일 이전·보관 조건을 확인하세요.'], ['캔바 무료체험은 자동으로 종료되나요?', '무료 이용 기간과 유료 전환·갱신 설정을 가입 화면에서 확인하세요. 취소가 필요한 경우 처리 기한을 확인해야 합니다.']],
+    sources: [{ label: 'Canva 공식 플랜 비교', url: 'https://www.canva.com/ko_kr/pricing/' }], productSource: 'https://www.gamsgo.com/ko/details/cannva',
+  },
+  {
+    slug: 'duolingo-discount-code', title: '듀오링고 할인코드', service: '듀오링고', color: '#487c16',
+    description: '듀오링고 할인코드 확인 상태와 Super 구독 비교. 검증된 입력 코드는 현재 없으며, 겜스고 제휴 링크와 개인·패밀리 상품 조건을 구분해 안내합니다.',
+    intro: '현재 쿠폰톡에서 검증한 듀오링고 입력용 할인코드는 없습니다. 만료되거나 확인되지 않은 코드를 안내하는 대신 Super 구독료와 실제 적용 조건을 비교해보세요.',
+    takeaway: '이 페이지의 겜스고 제휴 링크는 입력용 할인코드가 아닙니다. 추가 할인 보장 없이 최종 결제 금액과 상품 조건을 안내합니다.',
+    columns: ['혜택 유형', '현재 안내 상태', '확인할 내용'],
+    rows: [['입력용 할인코드', '검증된 코드 없음', '사용 가능한 코드로 오인하지 않도록 구분'], ['공식 구독·프로모션', '내 계정의 현재 혜택 확인', '개인·패밀리·기간·체험 자격'], ['겜스고 Super 상품', '제휴 링크로 상품 선택', '내 계정 초대·제공 기간·갱신 조건']],
+    sections: [
+      { heading: '듀오링고 할인코드와 제휴 링크 차이', text: '할인코드는 입력 후 할인 적용 여부를 확인하는 문자 조합이고, 제휴 링크는 판매 페이지로 이동하는 주소입니다. 링크를 클릭했다고 추가 할인이나 특정 할인율이 자동 보장되는 것은 아닙니다. 결제 직전 총액과 할인 항목이 실제로 표시되는지 확인하세요.' },
+      { heading: '듀오링고 Super와 다른 플랜 비교', text: '광고 없이 학습하고 싶은지, 특정 학습 기능이 필요한지부터 정하세요. 계정에 표시되는 유료 플랜의 기능과 기간을 비교하고, 이름이 다른 상위 상품의 기능이 Super에도 포함된다고 가정하지 마세요. 잠깐 공부하는 경우에는 장기 구독보다 필요한 기간의 총액을 비교하는 편이 좋습니다.' },
+      { heading: '듀오링고 패밀리·초대형 상품 확인', text: '겜스고의 듀오링고 홈 카드는 기존 계정 사용과 초대 링크 제공을 안내합니다. 초대를 받을 계정, 기존 패밀리 참여 상태, 현재 구독과의 중복 여부를 먼저 확인하세요. 전체 패밀리 플랜의 관리 권한을 받는 것인지 한 자리 이용 권한인지도 구분해야 합니다.' },
+      { heading: '할인 적용이 안 될 때 확인할 순서', text: '입력 코드가 있다면 오탈자, 만료일, 신규·기존 고객 조건과 대상 플랜을 확인하세요. 적용되지 않은 상태로 결제하면 할인 금액이 보장되지 않습니다. 초대형 상품은 코드 입력 문제가 아니라 계정·초대 수락 조건의 문제일 수 있으므로 판매처에 해당 상품 기준으로 문의하세요.' },
+    ],
+    questions: [['지금 복사해서 쓸 듀오링고 할인코드가 있나요?', '현재 검증된 입력용 코드는 없습니다. 확인되지 않은 코드나 할인율을 제공하지 않습니다.'], ['겜스고 링크를 누르면 자동 할인이 되나요?', '링크 방문만으로 추가 할인을 보장하지 않습니다. 상품을 선택하고 최종 결제 화면의 금액을 확인하세요.'], ['기존 학습 기록을 유지할 수 있나요?', '기존 내 계정으로 적용되는 상품인지 확인하세요. 새 계정 제공 상품과 기존 계정 초대 상품을 구분해야 합니다.'], ['Super와 Max는 같은 상품인가요?', '같은 상품으로 가정하지 마세요. 구매할 계정에 표시된 플랜 이름과 제공 기능을 확인하세요.']],
+    sources: [{ label: 'Duolingo 공식 프로모션 코드 도움말', url: 'https://www.duolingo.com/help/use-a-promo-code' }], productSource: 'https://www.gamsgo.com/ko/details/duolingo',
+  },
+];

diff --git a/src/lib/subscription-guides.ts b/src/lib/subscription-guides.ts
@@ -1,3 +1,5 @@
+import { extraSubscriptionGuides } from './subscription-guides-extra';
+
 export const subscriptionAffiliateUrl = 'https://www.gamsgo.com/partner/rQT9a';
 export const subscriptionReviewedAt = '2026-10-30';
 
@@ -16,6 +18,7 @@ export const subscriptionGuides = [
     ],
     sections: [
       { heading: '프리미엄과 라이트, 기능부터 비교하세요', text: '라이트는 대부분의 비음악 동영상에서 광고 없는 감상·백그라운드 재생·오프라인 저장을 제공합니다. 음악 콘텐츠와 쇼츠에는 같은 혜택이 적용되지 않으며 검색·탐색 중 광고가 나올 수 있습니다. 음악까지 자주 듣는다면 가격 차이뿐 아니라 별도 음악 구독료까지 합쳐 비교하세요.' },
+      { heading: '유튜브 프리미엄 할인 카드와 통신사 혜택 비교', text: '할인을 받기 위해 추가로 지출해야 하는 연회비나 통신 요금이 있는지 확인하세요. 기존에 충족하는 실적 조건이라면 혜택을 비교할 수 있지만, 할인액보다 추가 지출이 크면 총비용은 늘어납니다. 가족이 다른 음악 서비스를 결제 중이라면 중복 구독도 함께 정리해보세요.' },
       { heading: '아이폰에서도 결제 경로를 비교하세요', text: '위 표는 웹·Android 기준입니다. 아이폰 앱 안의 결제 금액과 웹에서 같은 계정으로 확인한 금액이 다를 수 있으므로 가입 직전 두 화면의 청구액을 비교하세요. 기존 구독이 남아 있다면 새 상품 시작일이 겹치는지도 확인하는 것이 좋습니다.' },
       { heading: '겜스고 유튜브 상품을 비교하는 순서', text: '겜스고 유튜브 상품에는 구독 기간, 충전 방식, 별도 보장 옵션이 표시됩니다. 먼저 내 계정을 사용하는 상품인지 확인하고, 12개월 등 장기 선결제 금액을 이용 개월 수로 나누세요. 화면의 월 환산 금액이 매달 자동으로 청구되는 금액과 같다고 가정하지 마세요. 계정 접근에 필요한 정보와 처리 기간도 결제 전에 확인하세요.' },
     ],
@@ -41,6 +44,7 @@ export const subscriptionGuides = [
     ],
     sections: [
       { heading: '연간 할인은 얼마나 오래 볼 때 유리할까요?', text: '스탠다드는 월간 12개월 합계 118,800원과 연간 99,000원, 프리미엄은 166,800원과 연간 139,000원을 비교할 수 있습니다. 연간 요금은 각 월간 요금의 10개월분입니다. 다만 두세 달만 보고 멈출 계획이라면 연간 결제가 총지출을 늘릴 수 있습니다. 취소 시 자동 갱신 해제와 즉시 환불의 차이도 확인하세요.' },
+      { heading: '디즈니플러스 할인코드와 결제 제휴 확인', text: '입력용 쿠폰, 카드 청구 할인, 통신사 결합 혜택은 적용 방식이 다릅니다. 코드가 있다면 적용 대상 플랜과 만료일을 확인하고, 청구 할인이라면 결제 즉시 금액이 줄어드는지 다음 청구서에서 반영되는지 구분하세요. 겜스고 제휴 링크 자체를 입력용 할인코드로 사용하지 마세요.' },
       { heading: '4K TV와 동시 시청 인원으로 고르세요', text: '스탠다드와 프리미엄의 차이는 화질과 동시 스트리밍 수입니다. 실제 화질은 콘텐츠·기기·인터넷 환경에 따라 달라집니다. 동시 4대라는 안내는 서로 다른 가구의 누구와나 계정을 공유할 수 있다는 뜻이 아닙니다. 공식 페이지의 가구 이용 조건도 함께 확인하세요.' },
       { heading: '번들과 겜스고, 비교 대상이 다릅니다', text: '티빙이나 웨이브도 이미 결제 중이라면 공식 번들의 합계부터 확인하세요. 겜스고 디즈니플러스 상품은 별도 판매 조건이 적용됩니다. 이용 가능한 프로필, 내 계정 사용 여부, TV 접속, 제공 기간과 중단 시 처리 기준을 확인한 뒤 같은 조건끼리 비교하세요. 겜스고의 디즈니플러스 상품을 공식 번들과 동일한 상품으로 보지 마세요.' },
     ],
@@ -68,6 +72,7 @@ export const subscriptionGuides = [
       { heading: '넷플릭스 요금제 할인, 광고와 화질을 먼저 선택하세요', text: '광고가 있는 요금제인지, 원하는 콘텐츠와 기기에서 이용할 수 있는지 확인하세요. 4K를 지원하는 TV가 없거나 혼자 휴대폰으로 시청한다면 최고 사양만을 기준으로 비교할 필요는 없습니다. 공식 가입 화면에서 제공되는 요금제·화질·동시 시청 수를 확인한 뒤 필요한 조건을 적어보세요. 국가별 가격을 한국 요금으로 혼동하지 않도록 이 페이지에는 미확인 원화 가격을 싣지 않았습니다.' },
       { heading: '통신사·멤버십 결합은 추가 지출까지 계산하세요', text: '이미 사용하는 통신사나 멤버십의 구독 혜택을 확인하세요. 넷플릭스를 할인받기 위해 더 비싼 요금제로 바꿔야 한다면 늘어나는 통신비도 포함해야 합니다. 신규·기존 고객 대상, 할인 유지 기간, 종료 후 갱신 가격을 구분하면 실제 절약액을 비교할 수 있습니다.' },
       { heading: '겜스고 넷플릭스는 판매자별 상품을 확인하세요', text: '2026년 10월 30일 겜스고 메뉴에서 넷플릭스 계정 구독은 마켓플레이스 경로로 안내됩니다. 플랫폼 이름만으로 모든 상품의 조건이 같다고 판단하지 마세요. 사용할 프로필과 계정 관리 권한, TV 인증, 이용 기간, 접속이 중단됐을 때의 교체·환불 범위를 상품별로 확인해야 합니다.' },
+      { heading: '넷플릭스 할인 방법: 실제 시청 기간으로 계산', text: '한 시리즈만 보기 위해 구독한다면 다음 갱신일과 필요한 기간을 먼저 적어보세요. 장기 상품의 낮은 월 환산가보다 짧은 기간의 실제 총액이 유리할 수 있습니다. 이미 결제 중인 멤버십에 넷플릭스가 포함돼 있는지 확인하면 이중 결제를 피하는 데 도움이 됩니다.' },
       { heading: '계정 공유와 연간 이용권을 구분하세요', text: '넷플릭스 공식 안내는 가구 외 계정 공유를 제한하며, 가능한 경우 별도 추가 회원 기능을 안내합니다. 또한 공식 넷플릭스는 연간·평생 멤버십을 제공하지 않는다고 명시합니다. 제3자가 판매하는 장기 이용 상품은 넷플릭스 공식 연간 요금제가 아니므로, 판매자의 제공 기간과 보장 범위를 별도로 확인하세요.' },
     ],
     questions: [
@@ -78,4 +83,5 @@ export const subscriptionGuides = [
     sources: [{ label: '넷플릭스 고객센터: 멤버십·결제 기간·가구 정책', url: 'https://help.netflix.com/ko/node/24926' }],
     productSource: 'https://www.gamsgo.com/ko/accounts/netflix',
   },
+  ...extraSubscriptionGuides,
 ];

diff --git a/src/app/subscriptions/[slug]/page.tsx b/src/app/subscriptions/[slug]/page.tsx
@@ -14,7 +14,7 @@ export async function generateMetadata({ params }: Props): Promise<Metadata> {
   if (!guide) return {};
   const url = `https://coupontalk.kr/subscriptions/${slug}`;
   const image = { url: `https://coupontalk.kr/subscription-images/${slug}.png`, width: 1200, height: 1200, alt: guide.title };
-  return { title: { absolute: guide.title }, description: guide.description, alternates: { canonical: url },
+  return { robots: { index: true, follow: true, 'max-image-preview': 'large' }, title: { absolute: guide.title }, description: guide.description, alternates: { canonical: url },
     openGraph: { title: guide.title, description: guide.description, url, type: 'article', locale: 'ko_KR', images: [image] },
     twitter: { card: 'summary_large_image', title: guide.title, description: guide.description, images: [image.url] } };
 }
@@ -36,12 +36,13 @@ export default async function SubscriptionGuide({ params }: Props) {
       </div>
       <Image src={`/subscription-images/${slug}.png`} alt={`${guide.service} 구독료와 이용 조건 비교`} width={1200} height={1200} priority className="mx-auto w-48 rounded-2xl object-contain md:w-60" />
     </header>
+    <nav aria-label="페이지 목차" className="mt-6 flex flex-wrap gap-3 text-sm"><a href="#compare" className="rounded-lg bg-gray-100 px-4 py-2">가격 비교</a><a href="#gamsgo" className="rounded-lg bg-gray-100 px-4 py-2">제휴 상품 조건</a><a href="#faq" className="rounded-lg bg-gray-100 px-4 py-2">자주 묻는 질문</a></nav>
     <p className="my-5 rounded-xl bg-blue-50 p-5 font-medium leading-7 text-blue-950">{guide.takeaway}</p>
     <p className="mb-8 text-sm leading-6 text-gray-500">제휴 안내: 겜스고 링크를 통해 구매하면 쿠폰톡이 수수료를 받을 수 있습니다. 쿠폰톡은 각 구독 서비스의 공식 판매처가 아니며, 구매·환불은 해당 판매처에서 진행됩니다.</p>
     <section id="compare" className="scroll-mt-28">
       <h2 className="mb-4 text-2xl font-bold">{guide.service} 가격과 이용 조건 비교</h2>
       <div className="overflow-x-auto rounded-2xl border border-gray-200 bg-white"><table className="w-full min-w-[560px] text-left text-sm"><caption className="sr-only">{guide.service} 구독 방법별 비교</caption><thead className="bg-gray-50"><tr>{guide.columns.map(c => <th key={c} scope="col" className="p-4">{c}</th>)}</tr></thead><tbody>{guide.rows.map(row => <tr key={row[0]} className="border-t border-gray-100"><th scope="row" className="p-4 font-semibold">{row[0]}</th><td className="p-4">{row[1]}</td><td className="p-4 leading-6 text-gray-600">{row[2]}</td></tr>)}</tbody></table></div>
-      <p className="mt-3 text-xs leading-6 text-gray-500">공식 안내 및 판매 화면을 확인한 날짜 기준입니다. 가격·제공 기능·가입 자격은 바뀔 수 있으며, 최종 조건은 결제 화면을 확인하세요.</p>
+      <p className="mt-3 text-xs leading-6 text-gray-500">공식 자료와 판매 안내를 검토한 날짜 기준입니다. 고정 가격이 없는 항목은 현재 선택 화면에서 확인해야 합니다. 가격·제공 기능·가입 자격은 바뀔 수 있으며, 최종 조건은 결제 화면을 확인하세요.</p>
     </section>
     <div className="my-10 grid gap-6 md:grid-cols-2">{guide.sections.map((section, i) => <section key={section.heading} className="rounded-2xl border border-gray-200 bg-white p-6"><p className="mb-3 text-sm font-bold" style={{ color: guide.color }}>0{i + 1}</p><h2 className="mb-3 text-xl font-bold leading-8">{section.heading}</h2><p className="leading-8 text-gray-600">{section.text}</p></section>)}</div>
     <section id="gamsgo" className="scroll-mt-28 rounded-3xl bg-slate-900 p-6 text-white md:p-9">
@@ -50,8 +51,8 @@ export default async function SubscriptionGuide({ params }: Props) {
       <a href={subscriptionAffiliateUrl} target="_blank" rel="sponsored nofollow noopener noreferrer" className="mt-6 inline-flex rounded-xl bg-white px-6 py-4 font-bold text-slate-900">겜스고 상품·가격 확인 ↗</a>
       <p className="mt-4 text-sm leading-6 text-slate-300">장기 선결제, 계정 공유·충전 상품은 공식 직접 구독과 조건이 다를 수 있습니다. 서비스 약관과 중단 시 처리·환불 범위를 확인하세요.</p>
     </section>
-    <section className="my-10"><h2 className="mb-5 text-2xl font-bold">자주 묻는 질문</h2><div className="divide-y rounded-2xl border bg-white px-6">{guide.questions.map(([q, a]) => <details key={q} className="py-5"><summary className="cursor-pointer font-semibold">{q}</summary><p className="mt-3 leading-7 text-gray-600">{a}</p></details>)}</div></section>
-    <section className="mb-10 text-sm"><h2 className="mb-3 font-bold">확인한 자료</h2><ul className="space-y-3">{guide.sources.map(s => <li key={s.url}><a href={s.url} target="_blank" rel="noopener noreferrer" className="text-blue-700 underline">{s.label} ↗</a></li>)}<li><a href={guide.productSource} target="_blank" rel="nofollow noopener noreferrer" className="text-blue-700 underline">겜스고 {guide.service} 상품 안내 ↗</a></li></ul></section>
+    <section id="faq" className="my-10 scroll-mt-28"><h2 className="mb-5 text-2xl font-bold">자주 묻는 질문</h2><div className="divide-y rounded-2xl border bg-white px-6">{guide.questions.map(([q, a]) => <details key={q} className="py-5"><summary className="cursor-pointer font-semibold">{q}</summary><p className="mt-3 leading-7 text-gray-600">{a}</p></details>)}</div></section>
+    <section className="mb-10 text-sm"><h2 className="mb-3 font-bold">확인한 자료</h2><ul className="space-y-3">{guide.sources.map(s => <li key={s.url}><a href={s.url} target="_blank" rel="noopener noreferrer" className="text-blue-700 underline">{s.label} ↗</a></li>)}<li><a href={subscriptionAffiliateUrl} target="_blank" rel="sponsored nofollow noopener noreferrer" className="text-blue-700 underline">겜스고 {guide.service} 상품 확인(제휴) ↗</a></li></ul></section>
     <aside className="rounded-2xl border p-6"><h2 className="mb-4 text-lg font-bold">다른 구독료도 비교해보세요</h2><div className="flex flex-wrap gap-3">{subscriptionGuides.filter(g => g.slug !== slug).map(g => <Link key={g.slug} href={`/subscriptions/${g.slug}`} className="rounded-full bg-gray-100 px-4 py-3 text-sm font-semibold">{g.title} →</Link>)}</div></aside>
     <script type="application/ld+json" dangerouslySetInnerHTML={{ __html: jsonLd({ '@context': 'https://schema.org', '@graph': [
       { '@type': 'Article', headline: guide.title, description: guide.description, mainEntityOfPage: url, datePublished: subscriptionReviewedAt, dateModified: subscriptionReviewedAt, image: `https://coupontalk.kr/subscription-images/${slug}.png`, author: { '@type': 'Organization', name: '쿠폰톡', url: 'https://coupontalk.kr/about' } },

diff --git a/src/app/subscriptions/page.tsx b/src/app/subscriptions/page.tsx
@@ -2,7 +2,7 @@ import type { Metadata } from 'next';
 import Link from 'next/link';
 import Image from 'next/image';
 import { subscriptionGuides } from '@/lib/subscription-guides';
-export const metadata: Metadata = { title: '구독 할인 비교', description: '유튜브 프리미엄, 디즈니플러스, 넷플릭스의 구독료와 할인 방법을 이용 조건별로 비교하세요.', alternates: { canonical: 'https://coupontalk.kr/subscriptions' } };
+export const metadata: Metadata = { title: { absolute: '구독 할인 비교' }, description: '유튜브 프리미엄·넷플릭스·티빙과 챗지피티·클로드·제미나이 등 15개 서비스의 구독료, 할인 방법, 계정 이용 조건을 비교하세요.', alternates: { canonical: 'https://coupontalk.kr/subscriptions' } };
 export default function Subscriptions() {
   return <div className="mx-auto max-w-6xl px-4"><p className="mb-3 text-sm font-semibold text-blue-700">쿠폰톡 구독 가이드</p><h1 className="text-4xl font-extrabold">구독 할인 비교</h1><p className="mb-8 mt-4 leading-7 text-gray-600">보고 싶은 서비스부터 선택하세요. 가격과 이용 방식, 결제 기간을 함께 비교합니다.</p><div className="grid gap-6 md:grid-cols-3">{subscriptionGuides.map(g => <Link href={`/subscriptions/${g.slug}`} key={g.slug} className="overflow-hidden rounded-3xl border bg-white transition hover:shadow-lg"><Image src={`/subscription-images/${g.slug}.png`} alt={g.title} width={1200} height={1200} className="aspect-square w-full object-contain"/><div className="p-6"><h2 className="text-xl font-bold">{g.title}</h2><p className="mt-3 text-sm leading-7 text-gray-600">{g.intro}</p><p className="mt-5 font-semibold text-blue-700">비교 가이드 보기 →</p></div></Link>)}</div></div>;
 }
